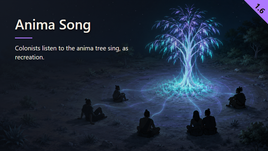
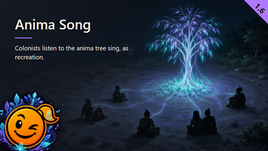
AnimaSong: Preview.png carries the ModIcon in its corner, gallery starts at 00
Owner's rule, 2026-09-29 (PUBLISHING.md, "Images"): every Preview now shows
the cut-out ModIcon in a corner, +15deg on the left, -15deg on the right.
Bottom-left chosen here, the scene's emptiest spot. Art/cutout-icon.cjs
flood-fills the near-black background from the border, same technique as
ManyHappyReturns; Art/preview.html composites it, bleeding off the edges.
Art/WorkshopScreenshots/00-preview.png is the required byte-for-byte copy
of the regenerated Preview.png, ahead of the existing 01-03 captures.

Changed region(s): [[0.0, 0.6093, 0.2388, 1.0]]

diff --git a/Art/preview.html b/Art/preview.html
@@ -15,11 +15,13 @@ h1 { font-size: var(--titleSize); font-weight: 600; line-height: 1.1; letter-spa
 .summary { width: 430px; font-size: 21px; font-weight: 400; line-height: 1.45; letter-spacing: 0; }
 .badge { position: absolute; right: 0; top: 0; width: 80px; height: 80px; background: var(--accent); clip-path: polygon(0 0,100% 0,100% 100%); }
 .version { position: absolute; left: 869px; top: 27px; transform: translate(-50%,-50%) rotate(45deg); color: var(--badgeInk); font-size: 26px; font-weight: 700; line-height: 1; text-shadow: none; }
+.icon { position: absolute; left: -30px; bottom: -30px; width: 240px; height: 240px; transform: rotate(15deg); filter: drop-shadow(0 6px 16px rgba(0,0,0,.6)); }
 </style>
 <img class="art" alt="An anima tree with seated listeners">
 <div class="veil"></div>
 <main class="copy"><h1></h1><p class="tag" hidden></p><div class="rule"></div><p class="summary"></p></main>
 <div class="badge"></div><div class="version"></div>
+<img class="icon" src="ModIcon-cutout.png" alt="">
 <script>
 window.ready = (async () => {
   const [palette, layout] = await Promise.all(['preview-palette.json','preview-layout.json'].map(p => fetch(p).then(r => r.json())));

diff --git a/PUBLICATION.md b/PUBLICATION.md
@@ -113,14 +113,16 @@ The three come from the Pickle feature `Tests/Pickle/Mod/Pickle/Features/05-work
 Nelim zen meadow studio (run `a32d`, pass `studio`, revision `12e7f67`): an anima tree grown at (154, 98), the studio's own
 colonists (Miel, Flore, Soleil), the game's screenshot mode on for the first image so that no interface shows. Each image
 was opened and qualified by the owner before being committed. They are JPEG, 1920 x 1080, not cropped (converted from the PNG captures with ffmpeg `-q:v 3` on 2026-09-28: the PNGs were 4.6 to 4.9 MB and the Steam gallery refuses images over 2 MB; the JPEGs are about 740 KB, the interface text still sharp): `Art/WorkshopScreenshots/`,
-named `01-…`, `02-…`, `03-…` in the order they go on the page, **and nothing else in that folder**: the folder is uploaded
-as it is and is the `--gallery-dir` of the workflow (`../PUBLISHING.md`, "Images").
+named `01-…`, `02-…`, `03-…` in the order they go on the page after `00-preview.png` (see "The preview image"),
+**and nothing else in that folder**: the folder is uploaded as it is and is the `--gallery-dir` of the workflow
+(`../PUBLISHING.md`, "Images").
 
 Owner's note on the first image: the camera at (154, 98) reads a little wide, not exactly where the three listeners end up
 seated. Zoom in closer next time this scenario is redone; kept as approved for this version.
 
 | # | File | Shows |
 | --- | --- | --- |
+| 0 | `00-preview.png` | Copy of `Preview.png` (`../PUBLISHING.md`, "Images") |
 | 1 | `01-the-tree-singing.jpg` | The tree singing, its halo up, three listeners nearby, no interface |
 | 2 | `02-the-right-click-menu.jpg` | The right-click order on the tree, offered to a selected colonist |
 | 3 | `03-the-tree-selected.jpg` | The tree selected, its **Allow listening** toggle in the gizmo bar, developer mode off |
@@ -132,6 +134,13 @@ colonists seated in a ring and a thin line of light from the trunk to each. It i
 direction, and says so in `AI-GENERATED`. The CI does not send it unless `update_preview` is turned on: **either Virginie turns
 it on for the dispatch, or the image is set by hand on the Steam page.** `Mod/About/ModIcon.png` (the mod list's own icon)
 was opened too.
+
+**The ModIcon rides in the bottom-left corner, tilted +15deg** (owner's rule, 2026-09-29, `../PUBLISHING.md` "Images"):
+`Art/ModIcon-cutout.png` (`Art/cutout-icon.cjs`, flood-filled from the border so only the near-black background goes
+transparent, the mascot's own outline untouched), composited by `Art/preview.html`'s `.icon`, bleeding off the left
+and bottom edges. Bottom-left chosen as the scene's emptiest corner (no listener silhouette there). `cutout-icon.cjs`
+is a one-off, re-run by hand only if the source icon changes; its output is committed. `Art/WorkshopScreenshots/00-preview.png`
+recopied whenever `Preview.png` is regenerated, or the two diverge silently.
 
 ## Content boxes (adult content, violence)
 

diff --git a/Art/preview-workflow.md b/Art/preview-workflow.md
@@ -5,8 +5,12 @@ available to Node.js and Google Chrome installed. The script starts a temporary 
 server, captures at 896 × 504 after the image and fonts load, verifies platform fonts and
 contrast, saves the final PNG and QA artifacts, then closes the browser and server.
 
-- `Preview.png`: retained illustration without text, copied unchanged from `Preview-source.png`.
+- `Preview.png`: retained illustration without text, copied unchanged from `Preview-source.png`, with the
+  cut-out ModIcon composited into the bottom-left corner (see below). After any regeneration, recopy it to
+  `Art/WorkshopScreenshots/00-preview.png` — the two must stay identical.
 - `preview.html`: HTML/CSS composition; load via a local HTTP server for interactive inspection.
+- `ModIcon-cutout.png` (`cutout-icon.cjs`): `ModIcon-source.png` with its near-black background flood-filled
+  transparent from the border inward. One-off, re-run only if the source icon changes; the output is committed.
 - `preview-layout.json`: exact existing wording, version and composition parameters.
 - `preview-palette.json`: the only source of overlay colours.
 - `preview-qa.json`: fonts, coordinates, byte count and measured contrast results.
